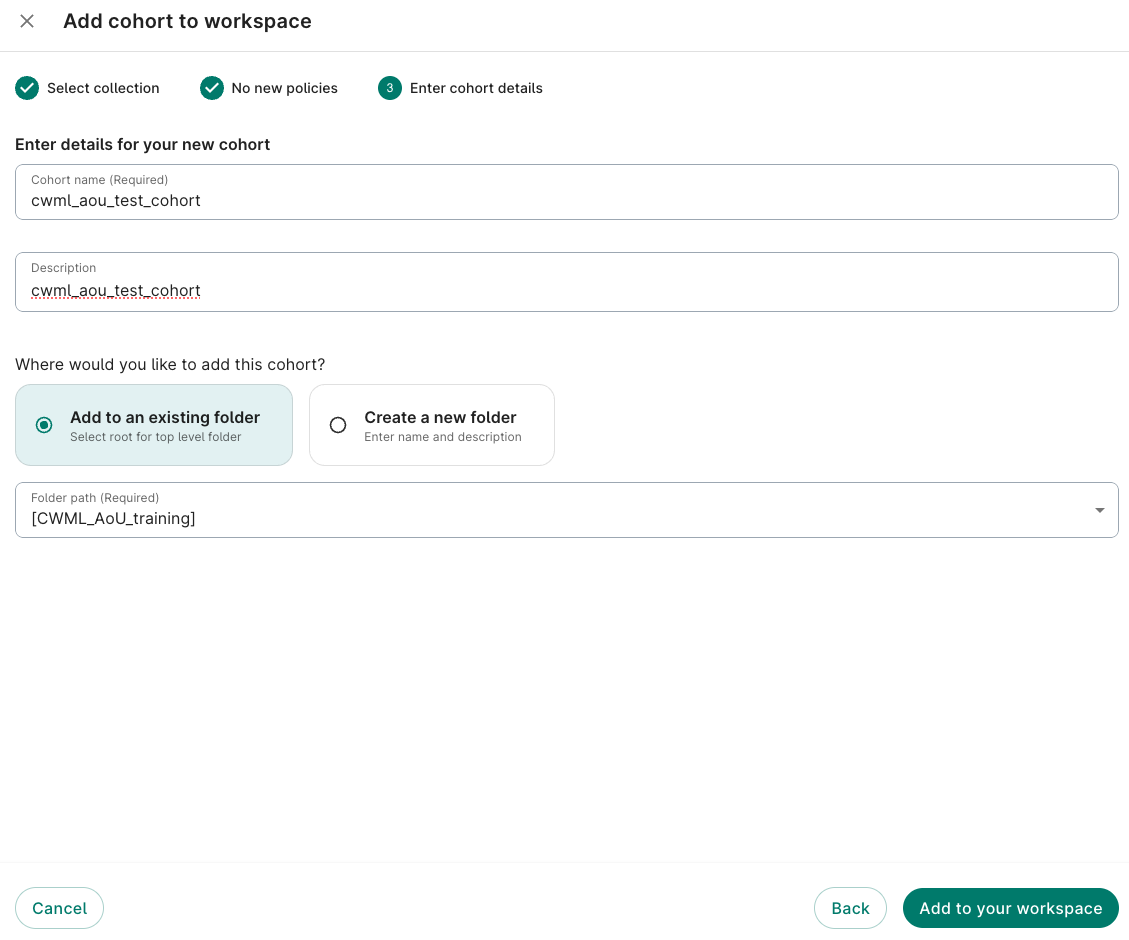
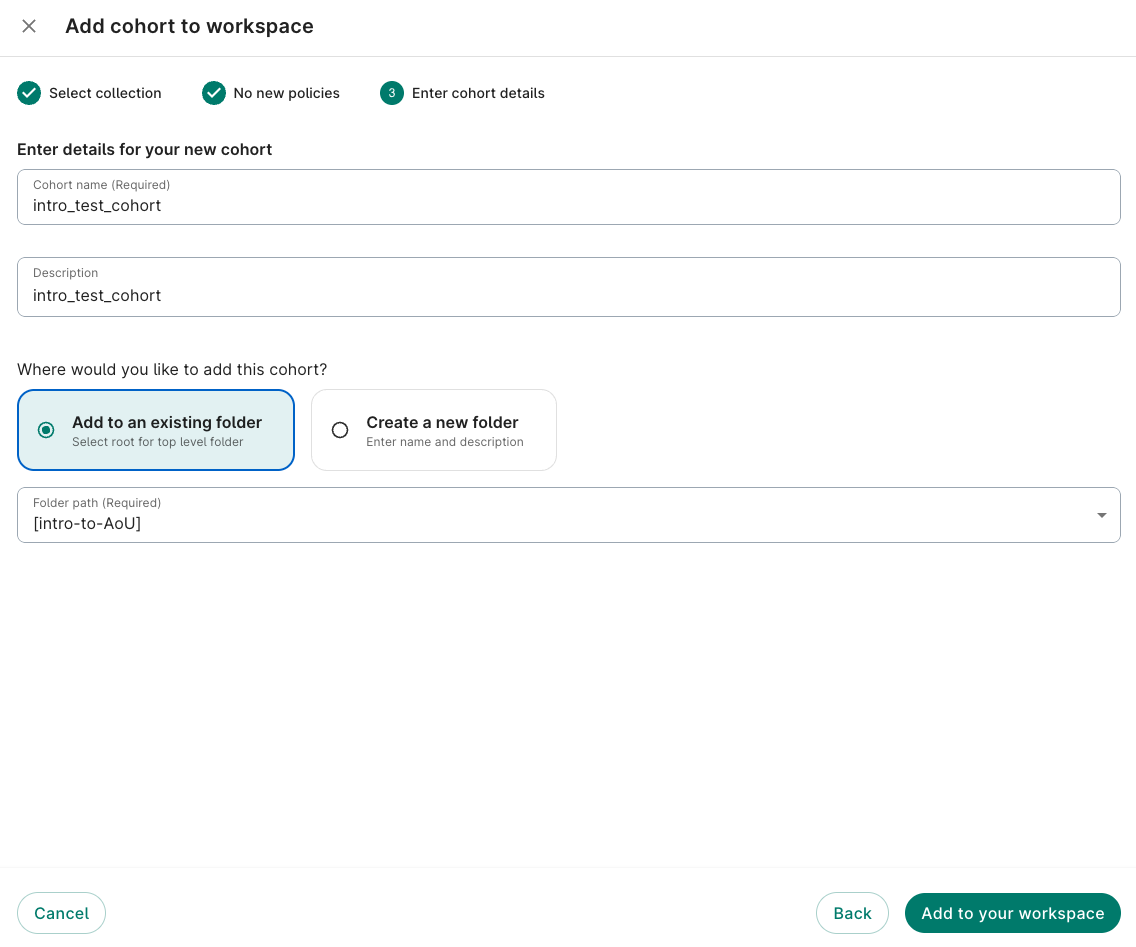
Add cohort builder slides; update Data Explorer screenshots to intro-to-AoU on CDR v9
- New slides: Building a Cohort (filter + visualizations), Adding Criteria
- Replace add-cohort and snapshot screenshots with intro-to-AoU / cdrv9 versions
- Paint out staff email; close comparison-table, registration, browse, version TODOs

diff --git a/Intro to workbench 2.0/Introduction.html b/Intro to workbench 2.0/Introduction.html
@@ -613,13 +613,17 @@ Maximilian Wegener, MPH
 <td><strong>JupyterLab</strong></td>
 </tr>
 <tr class="odd">
-<td>Workspace bucket</td>
-<td>Workspace <strong>Resources</strong> (cloud storage)</td>
+<td>Workspace bucket (created for you)</td>
+<td>A <strong>Cloud Storage bucket you create</strong> on the <strong>Resources</strong> tab</td>
+</tr>
+<tr class="even">
+<td>Code snippets to copy files</td>
+<td>Buckets <strong>mounted as folders</strong> in every app</td>
 </tr>
 </tbody>
 </table>
 <aside class="notes">
-<p>Based on the All of Us “Researcher Workbench 2.0 Glossary of Terms and Comparison Guide”. TODO: check the last row and any renamed terms against the guide.</p>
+<p>Based on the All of Us “Researcher Workbench 2.0 Glossary of Terms and Comparison Guide” and what we confirmed in the Workbench: new 2.0 workspaces have no bucket until you create one (migrated workspaces get an rw-migration-… bucket), and the Snippets menu is gone.</p>
 <style type="text/css">
         span.MJX_Assistive_MathML {
           position:absolute!important;
@@ -650,7 +654,7 @@ Maximilian Wegener, MPH
 <li>For Controlled Tier data, complete the <strong>Controlled Tier training</strong></li>
 </ol>
 <aside class="notes">
-<p>TODO: add screenshots of the registration pages.</p>
+<p>Students who already have Workbench access can skip this slide. Registration happens on the All of Us Research Hub before Workbench access; screenshots aren’t included because the pages are only shown to new users.</p>
 <style type="text/css">
         span.MJX_Assistive_MathML {
           position:absolute!important;
@@ -2612,7 +2616,7 @@ Maximilian Wegener, MPH
 <p>👉 Handy for checking that an export arrived, or finding a file’s path</p>
 </div>
 <aside class="notes">
-<p>This bucket (rw-migration-aou-rw-…) is the migration bucket of a workspace moved from the classic Workbench. The .Trash-1000 and .Trash-1001 folders are most likely JupyterLab’s trash for files deleted from the mounted bucket; they still take up storage until emptied. Bucket resources on the Resources tab also have a Browse button (seen on the vwb-aou-datasets-controlled-v9 bucket). Verily notes that in perimeter workspaces browsing only works if the perimeter administrator has enabled it; TODO: test Browse on your own bucket.</p>
+<p>This bucket (rw-migration-aou-rw-…) is the migration bucket of a workspace moved from the classic Workbench. The .Trash-1000 and .Trash-1001 folders are most likely JupyterLab’s trash for files deleted from the mounted bucket; they still take up storage until emptied. Bucket resources on the Resources tab also have a Browse button (seen on the vwb-aou-datasets-controlled-v9 bucket). Verily notes that in perimeter workspaces browsing only works if the perimeter administrator has enabled it; this training uses the Google Cloud console route instead.</p>
 <style type="text/css">
         span.MJX_Assistive_MathML {
           position:absolute!important;
@@ -2716,27 +2720,27 @@ Maximilian Wegener, MPH
 <div class="column" style="width:55%;">
 <div class="annotated">
 <p><img data-src="images/dx_add_1_collection.png"></p>
-<div class="red-box" style="left: 1.4%; top: 43.4%; width: 97.8%; height: 7.6%;">
+<div class="red-box" style="left: 1.4%; top: 43.6%; width: 97.8%; height: 7.4%;">
 
 </div>
-<div class="green-box" style="left: 68.4%; top: 44.8%; width: 18.4%; height: 4.8%;">
+<div class="green-box" style="left: 68.8%; top: 45.2%; width: 19.0%; height: 4.4%;">
 
 </div>
-<div class="red-circle" style="left: 92.0%; top: 93.0%; width: 8.0%; height: 6.4%;">
+<div class="red-circle" style="left: 92.2%; top: 93.4%; width: 7.6%; height: 5.8%;">
 
 </div>
 </div>
 </div><div class="column side" style="width:45%;">
 <p><strong>Step 1:</strong> pick the <strong>data collection</strong> your workspace already has, e.g., <strong>All of Us Controlled Tier</strong></p>
 <ul>
-<li>Choose the <strong>Version</strong>: pick the <strong>newest</strong> (CDR v9 = <code>C2025Q4R6</code>)</li>
+<li>Choose the <strong>Version</strong>: the newest, <strong>cdrv9</strong></li>
 <li>The other tier shows <strong>Policy conflict</strong>: one tier per workspace</li>
 </ul>
 <p>Click <strong>Next</strong></p>
 <p><strong>Step 2: No new policies.</strong> Your workspace already has this collection’s policies. Click <strong>Next</strong>.</p>
 </div></div>
 <aside class="notes">
-<p>The screenshot’s “Last modified … by” column showed a staff email; it has been painted out. The version selected in this screenshot (v8r9) produced queries that read dataset C2024Q3R9, which has the 2024 Q3 data cutoff of the CDR v8 generation; CDR v9 is C2025Q4R6 (release notes). TODO: check the Version dropdown for a v9 option. Either way, students should copy dataset paths from their own Data Explorer query instead of typing them.</p>
+<p>The screenshot’s “Last modified … by” column showed a staff email; it has been painted out. An earlier test cohort used the older version v8r9, whose queries read dataset C2024Q3R9 (2024 Q3 data cutoff, CDR v8 generation); CDR v9 is C2025Q4R6 (release notes). Either way, students should copy dataset paths from their own Data Explorer query instead of typing them.</p>
 <style type="text/css">
         span.MJX_Assistive_MathML {
           position:absolute!important;
@@ -2755,13 +2759,13 @@ Maximilian Wegener, MPH
 <div class="column" style="width:55%;">
 <div class="annotated">
 <p><img data-src="images/dx_add_3_details.png"></p>
-<div class="green-box" style="left: 1.0%; top: 17.0%; width: 98.4%; height: 16.6%;">
+<div class="green-box" style="left: 1.0%; top: 17.2%; width: 98.2%; height: 16.8%;">
 
 </div>
-<div class="green-box" style="left: 1.0%; top: 40.4%; width: 48.4%; height: 9.4%;">
+<div class="green-box" style="left: 1.0%; top: 40.4%; width: 48.6%; height: 9.6%;">
 
 </div>
-<div class="red-circle" style="left: 79.2%; top: 93.4%; width: 20.6%; height: 6.2%;">
+<div class="red-circle" style="left: 79.0%; top: 93.4%; width: 20.2%; height: 5.8%;">
 
 </div>
 </div>
@@ -2793,21 +2797,59 @@ Maximilian Wegener, MPH
 </section>
 <section id="building-a-cohort" class="slide level2">
 <h2>Building a Cohort</h2>
-<ul>
-<li>Select your study population with inclusion/exclusion criteria (AND/OR)</li>
-<li>Demographics, conditions, measurements, medications, procedures, surveys</li>
-</ul>
-<div class="fragment">
-<p><strong>Example criteria:</strong></p>
-<ul>
-<li>Sex → Woman</li>
-<li>Age → 65 or older</li>
-<li>Condition → Breast cancer</li>
-<li>Medication → Tamoxifen</li>
-</ul>
+<div class="annotated short">
+<p><img data-src="images/dx_cohort_view.png"></p>
+<div class="green-box" style="left: 0.4%; top: 10.0%; width: 40.8%; height: 77.0%;">
+
 </div>
+<div class="red-circle" style="left: 1.6%; top: 47.6%; width: 7.8%; height: 6.6%;">
+
+</div>
+<div class="red-circle" style="left: 87.0%; top: 0.8%; width: 10.8%; height: 6.8%;">
+
+</div>
+</div>
+<div class="columns">
+<div class="column side" style="width:50%;">
+<p><strong>Cohort filter</strong> (left): each <strong>group</strong> is <strong>Included</strong> or <strong>Excluded</strong> and must <strong>meet any</strong> (OR) or <strong>all</strong> (AND) of its criteria. Groups combine with <strong>AND</strong>. <strong>Add criteria</strong> → <strong>Apply</strong>; the participant count updates.</p>
+</div><div class="column side" style="width:50%;">
+<p><strong>Cohort visualizations</strong> (right): charts by gender, race, sex at birth, and age. When you’re done, click <strong>Save data snapshot</strong>.</p>
+<p>⚠ <strong>Review individuals</strong> shows participant-level rows: never screenshot or share it</p>
+</div></div>
 <aside class="notes">
-<p>Time-based criteria (e.g., within X days of an event) are supported. TODO: screenshot of the cohort builder in Data Explorer.</p>
+<p>Example: intro_test_cohort in the intro-to-AoU workspace, CDR v9, Gender identity = Man or Woman (730,256 participants). Only large counts are shown on these slides. Time-based criteria (e.g., within X days of an event) are supported.</p>
+<style type="text/css">
+        span.MJX_Assistive_MathML {
+          position:absolute!important;
+          clip: rect(1px, 1px, 1px, 1px);
+          padding: 1px 0 0 0!important;
+          border: 0!important;
+          height: 1px!important;
+          width: 1px!important;
+          overflow: hidden!important;
+          display:block!important;
+      }</style></aside>
+</section>
+<section id="adding-criteria" class="slide level2">
+<h2>Adding Criteria</h2>
+<div class="annotated short">
+<p><img data-src="images/dx_criteria.png"></p>
+<div class="green-box" style="left: 1.2%; top: 5.6%; width: 98.4%; height: 5.6%;">
+
+</div>
+</div>
+<div class="columns">
+<div class="column side" style="width:50%;">
+<p><strong>Add criteria</strong> opens the full list: <strong>domains</strong> (conditions, drugs, labs, visits…), <strong>source codes</strong> (ICD-9/10, CPT-4), <strong>demographics</strong>, <strong>wearables</strong> (Fitbit), <strong>genomics</strong>, <strong>physical measurements</strong>, and <strong>surveys</strong></p>
+</div><div class="column side" style="width:50%;">
+<ul>
+<li><strong>+</strong> adds a criterion directly (e.g., <em>Has EHR Data</em>, <em>Current Age</em>)</li>
+<li><strong>🔍</strong> lets you <strong>explore</strong> a category and pick specific concepts</li>
+<li>Or <strong>search</strong> by code or description (top)</li>
+</ul>
+</div></div>
+<aside class="notes">
+<p>Example study population: Sex → Woman; Age → 65 or older; Condition → Breast cancer; Medication → Tamoxifen.</p>
 <style type="text/css">
         span.MJX_Assistive_MathML {
           position:absolute!important;
@@ -2970,17 +3012,17 @@ Maximilian Wegener, MPH
 
 </div>
 </div>
-<p><strong>Existing bucket:</strong> pick its <strong>Resource ID</strong></p>
+<p><strong>Existing bucket:</strong> pick its <strong>Resource ID</strong> (grayed out if the workspace has no bucket yet)</p>
 </div><div class="column" style="width:28%;">
 <div class="annotated">
 <p><img data-src="images/dx_snap_3_newbucket.png"></p>
-<div class="green-box" style="left: 2.6%; top: 33.0%; width: 95.0%; height: 8.4%;">
+<div class="green-box" style="left: 2.4%; top: 31.2%; width: 95.4%; height: 8.6%;">
 
 </div>
-<div class="green-box" style="left: 2.6%; top: 77.6%; width: 95.0%; height: 6.0%;">
+<div class="green-box" style="left: 2.4%; top: 76.8%; width: 95.4%; height: 6.4%;">
 
 </div>
-<div class="red-circle" style="left: 84.6%; top: 93.4%; width: 14.0%; height: 5.2%;">
+<div class="red-circle" style="left: 84.4%; top: 93.4%; width: 14.2%; height: 5.4%;">
 
 </div>
 </div>
@@ -2993,7 +3035,7 @@ Maximilian Wegener, MPH
 </div>
 </div></div>
 <aside class="notes">
-<p>Example of a generated name: Resource ID cwml_test_cohort became bucket name cwml-test-cohort-wb-swift-eggplant-8983 (underscores turn into dashes). Bucket names are public, so the Resource ID shouldn’t contain personal details.</p>
+<p>Example of a generated name: Resource ID intro_aou_genetics became bucket name intro-aou-genetics-wb-swift-bean-2622 (underscores turn into dashes). In a workspace with no bucket yet, “Add to existing bucket” is grayed out. Bucket names are public, so the Resource ID shouldn’t contain personal details.</p>
 <style type="text/css">
         span.MJX_Assistive_MathML {
           position:absolute!important;
